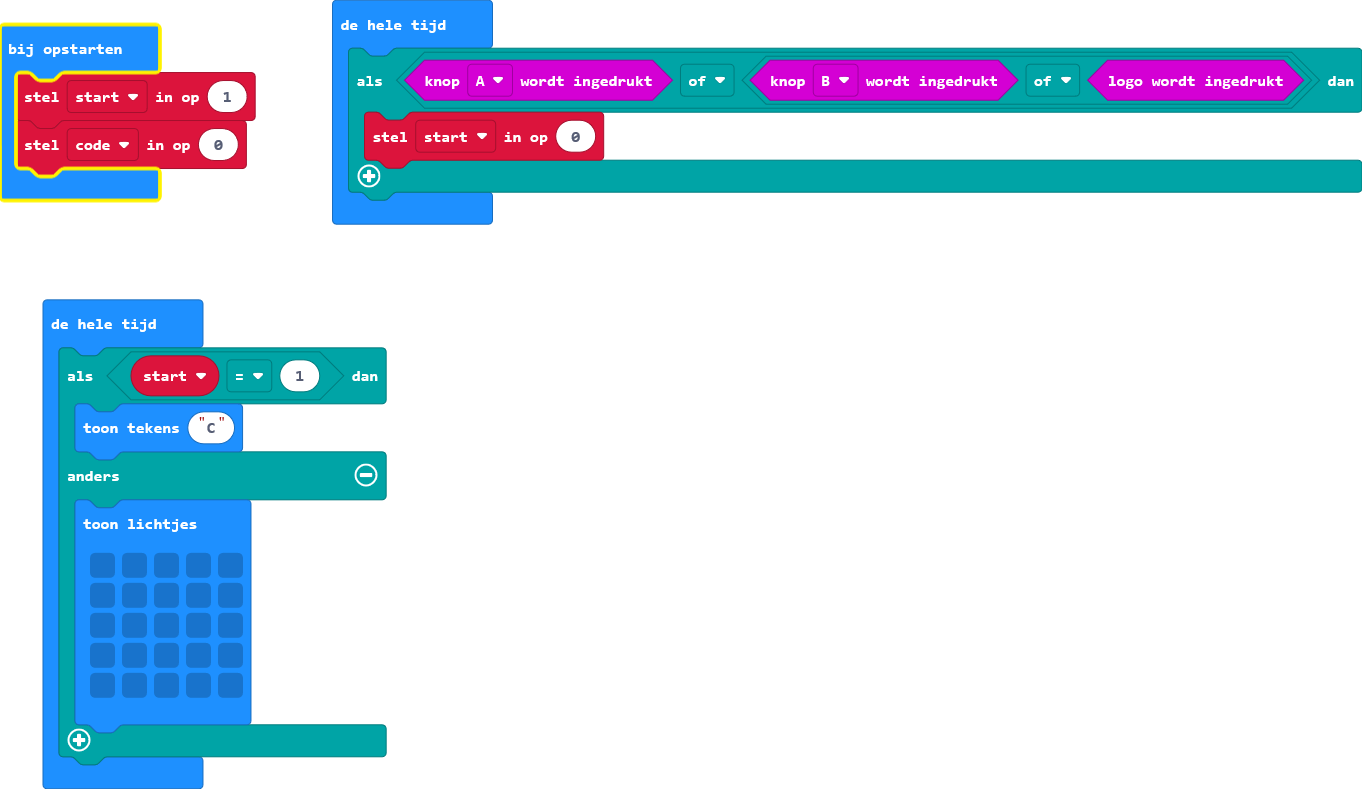
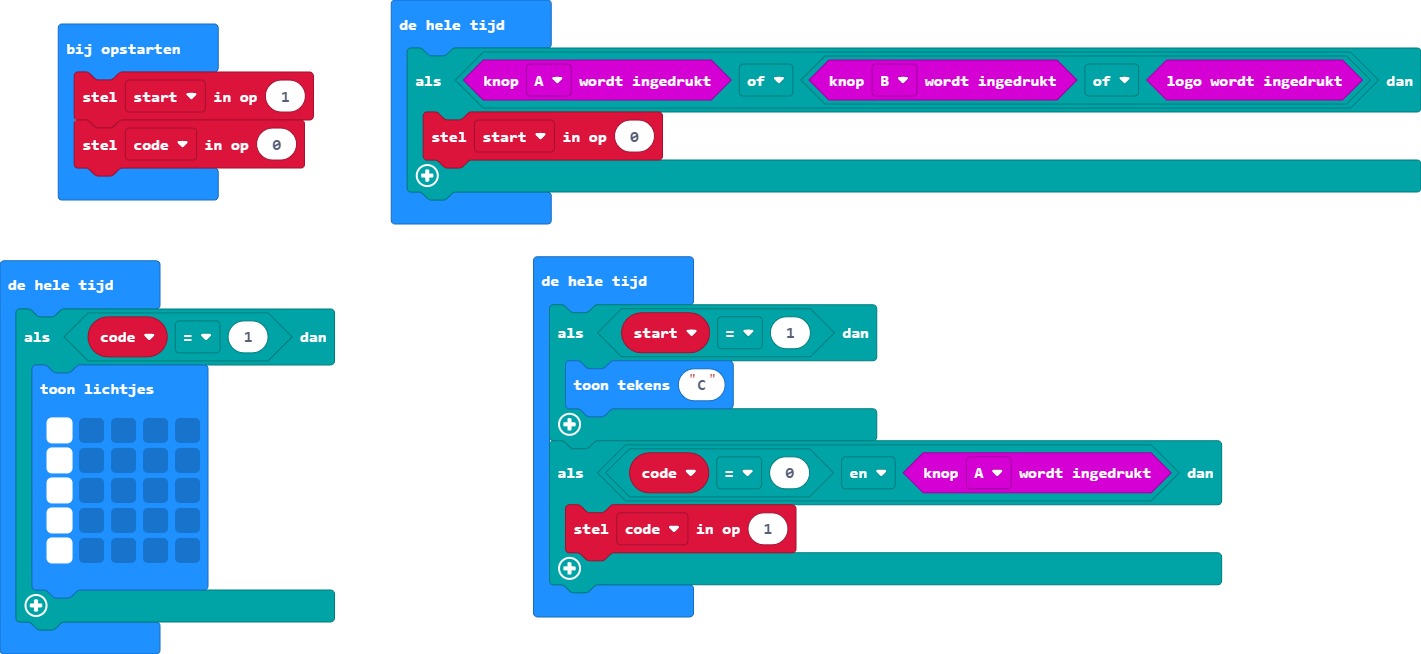
main.blocks, main.ts bijwerken

diff --git a/main.ts b/main.ts
@@ -6,15 +6,21 @@ basic.forever(function () {
     }
 })
 basic.forever(function () {
+    if (code == 1) {
+        basic.showLeds(`
+            # . . . .
+            # . . . .
+            # . . . .
+            # . . . .
+            # . . . .
+            `)
+    }
+})
+basic.forever(function () {
     if (start == 1) {
         basic.showString("C")
-    } else {
-        basic.showLeds(`
-            . . . . .
-            . . . . .
-            . . . . .
-            . . . . .
-            . . . . .
-            `)
+    }
+    if (code == 0 && input.buttonIsPressed(Button.A)) {
+        code = 1
     }
 })
